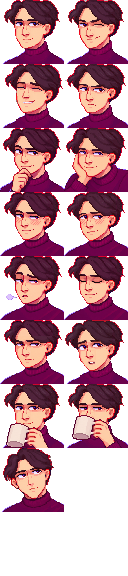
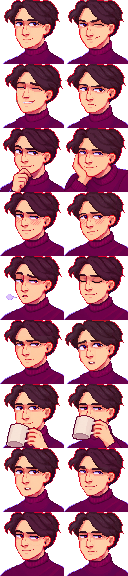
readme and sprite

Changed region(s): [[0.0, 0.75, 1.0, 1.0], [0.2812, 0.75, 0.3125, 0.7812]]

diff --git a/README.md b/README.md
@@ -1,6 +1,62 @@
 # Soldat Mod for Stardew Valley
 
-> Описание...
+### Справочник эмоций
+## Zemo
+<table>
+  <tr>
+    <td align="center"><b>#0</b><br><img src="[CP]%20Soldat/Assets/Portraits/Zemo/Zemo.png" style="width: 64px; height: 64px; object-fit: none; object-position: 0px 0px;"></td>
+    <td align="center"><b>#1</b><br><img src="[CP]%20Soldat/Assets/Portraits/Zemo/Zemo.png" style="width: 64px; height: 64px; object-fit: none; object-position: -64px 0px;"></td>
+    <td align="center"><b>#2</b><br><img src="[CP]%20Soldat/Assets/Portraits/Zemo/Zemo.png" style="width: 64px; height: 64px; object-fit: none; object-position: 0px -64px;"></td>
+    <td align="center"><b>#3</b><br><img src="[CP]%20Soldat/Assets/Portraits/Zemo/Zemo.png" style="width: 64px; height: 64px; object-fit: none; object-position: -64px -64px;"></td>
+    <td align="center"><b>#4</b><br><img src="[CP]%20Soldat/Assets/Portraits/Zemo/Zemo.png" style="width: 64px; height: 64px; object-fit: none; object-position: 0px -128px;"></td>
+  </tr>
+  <tr>
+    <td align="center"><b>#5</b><br><img src="[CP]%20Soldat/Assets/Portraits/Zemo/Zemo.png" style="width: 64px; height: 64px; object-fit: none; object-position: -64px -128px;"></td>
+    <td align="center"><b>#6</b><br><img src="[CP]%20Soldat/Assets/Portraits/Zemo/Zemo.png" style="width: 64px; height: 64px; object-fit: none; object-position: 0px -192px;"></td>
+    <td align="center"><b>#7</b><br><img src="[CP]%20Soldat/Assets/Portraits/Zemo/Zemo.png" style="width: 64px; height: 64px; object-fit: none; object-position: -64px -192px;"></td>
+    <td align="center"><b>#8</b><br><img src="[CP]%20Soldat/Assets/Portraits/Zemo/Zemo.png" style="width: 64px; height: 64px; object-fit: none; object-position: 0px -256px;"></td>
+    <td align="center"><b>#9</b><br><img src="[CP]%20Soldat/Assets/Portraits/Zemo/Zemo.png" style="width: 64px; height: 64px; object-fit: none; object-position: -64px -256px;"></td>
+  </tr>
+  <tr>
+    <td align="center"><b>#10</b><br><img src="[CP]%20Soldat/Assets/Portraits/Zemo/Zemo.png" style="width: 64px; height: 64px; object-fit: none; object-position: 0px -320px;"></td>
+    <td align="center"><b>#11</b><br><img src="[CP]%20Soldat/Assets/Portraits/Zemo/Zemo.png" style="width: 64px; height: 64px; object-fit: none; object-position: -64px -320px;"></td>
+    <td align="center"><b>#12</b><br><img src="[CP]%20Soldat/Assets/Portraits/Zemo/Zemo.png" style="width: 64px; height: 64px; object-fit: none; object-position: 0px -384px;"></td>
+    <td align="center"><b>#13</b><br><img src="[CP]%20Soldat/Assets/Portraits/Zemo/Zemo.png" style="width: 64px; height: 64px; object-fit: none; object-position: -64px -384px;"></td>
+    <td align="center"><b>#14</b><br><img src="[CP]%20Soldat/Assets/Portraits/Zemo/Zemo.png" style="width: 64px; height: 64px; object-fit: none; object-position: 0px -448px;"></td>
+  </tr>
+  <tr>
+    <td align="center"><b>#15</b><br><img src="[CP]%20Soldat/Assets/Portraits/Zemo/Zemo.png" style="width: 64px; height: 64px; object-fit: none; object-position: -64px -448px;"></td>
+    <td align="center"><b>#16</b><br><img src="[CP]%20Soldat/Assets/Portraits/Zemo/Zemo.png" style="width: 64px; height: 64px; object-fit: none; object-position: 0px -512px;"></td>
+    <td align="center"><b>#17</b><br><img src="[CP]%20Soldat/Assets/Portraits/Zemo/Zemo.png" style="width: 64px; height: 64px; object-fit: none; object-position: -64px -512px;"></td>
+  </tr>
+</table>
+
+### James 
+
+<table>
+  <tr>
+    <td align="center"><b>#0</b><br><img src="[CP]%20Soldat/Assets/Portraits/James/James_Beach.png" style="width: 64px; height: 64px; object-fit: none; object-position: 0px 0px;"></td>
+    <td align="center"><b>#1</b><br><img src="[CP]%20Soldat/Assets/Portraits/James/James_Beach.png" style="width: 64px; height: 64px; object-fit: none; object-position: -64px 0px;"></td>
+    <td align="center"><b>#2</b><br><img src="[CP]%20Soldat/Assets/Portraits/James/James_Beach.png" style="width: 64px; height: 64px; object-fit: none; object-position: 0px -64px;"></td>
+    <td align="center"><b>#3</b><br><img src="[CP]%20Soldat/Assets/Portraits/James/James_Beach.png" style="width: 64px; height: 64px; object-fit: none; object-position: -64px -64px;"></td>
+    <td align="center"><b>#4</b><br><img src="[CP]%20Soldat/Assets/Portraits/James/James_Beach.png" style="width: 64px; height: 64px; object-fit: none; object-position: 0px -128px;"></td>
+  </tr>
+  <tr>
+    <td align="center"><b>#5</b><br><img src="[CP]%20Soldat/Assets/Portraits/James/James_Beach.png" style="width: 64px; height: 64px; object-fit: none; object-position: -64px -128px;"></td>
+    <td align="center"><b>#6</b><br><img src="[CP]%20Soldat/Assets/Portraits/James/James_Beach.png" style="width: 64px; height: 64px; object-fit: none; object-position: 0px -192px;"></td>
+    <td align="center"><b>#7</b><br><img src="[CP]%20Soldat/Assets/Portraits/James/James_Beach.png" style="width: 64px; height: 64px; object-fit: none; object-position: -64px -192px;"></td>
+    <td align="center"><b>#8</b><br><img src="[CP]%20Soldat/Assets/Portraits/James/James_Beach.png" style="width: 64px; height: 64px; object-fit: none; object-position: 0px -256px;"></td>
+    <td align="center"><b>#9</b><br><img src="[CP]%20Soldat/Assets/Portraits/James/James_Beach.png" style="width: 64px; height: 64px; object-fit: none; object-position: -64px -256px;"></td>
+  </tr>
+  <tr>
+    <td align="center"><b>#10</b><br><img src="[CP]%20Soldat/Assets/Portraits/James/James_Beach.png" style="width: 64px; height: 64px; object-fit: none; object-position: 0px -320px;"></td>
+    <td align="center"><b>#11</b><br><img src="[CP]%20Soldat/Assets/Portraits/James/James_Beach.png" style="width: 64px; height: 64px; object-fit: none; object-position: -64px -320px;"></td>
+    <td align="center"><b>#12</b><br><img src="[CP]%20Soldat/Assets/Portraits/James/James_Beach.png" style="width: 64px; height: 64px; object-fit: none; object-position: 0px -384px;"></td>
+    <td align="center"><b>#13</b><br><img src="[CP]%20Soldat/Assets/Portraits/James/James_Beach.png" style="width: 64px; height: 64px; object-fit: none; object-position: -64px -384px;"></td>
+    <td align="center"><b>#14</b><br><img src="[CP]%20Soldat/Assets/Portraits/James/James_Beach.png" style="width: 64px; height: 64px; object-fit: none; object-position: 0px -448px;"></td>
+  </tr>
+
+</table>
 
 ---
 
